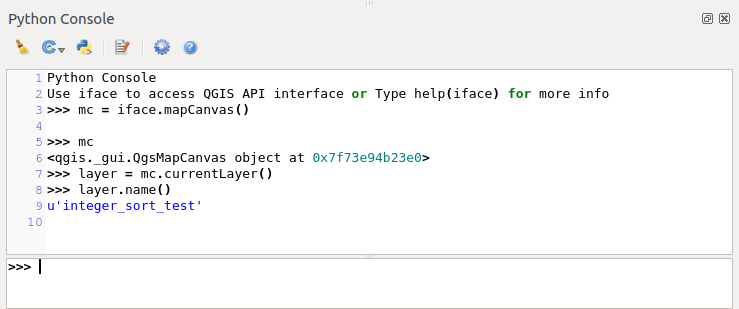
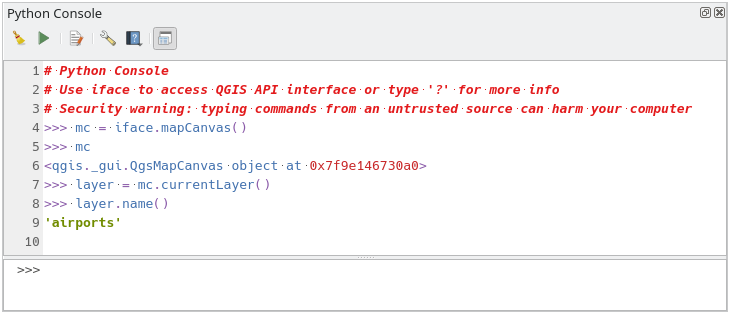
Describe Python Console features

Changed region(s): [[0.0, 0.0, 1.0, 1.0]]

diff --git a/docs/user_manual/plugins/python_console.rst b/docs/user_manual/plugins/python_console.rst
@@ -12,26 +12,37 @@ QGIS Python console
    .. contents::
       :local:
 
-As you will see later in this chapter, QGIS has been designed with a plugin
-architecture. Plugins can be written in Python, a very famous language in the
-geospatial world.
+As you will see later in this chapter, QGIS has been designed with a plugin architecture.
+Plugins can be written in Python, a very famous language in the geospatial world.
 
 QGIS brings a Python API (see :ref:`PyQGIS Developer Cookbook <PyQGIS-Developer-Cookbook>`
-for some code sample) to let the user interact with its objects (layers,
-feature or interface). QGIS also has a Python console.
+for some code sample) to let the user interact with its objects (layers, feature or interface).
+QGIS also has a Python console.
 
-The QGIS Python Console is an interactive shell for the python command
-executions. It also has a python file editor that allows you to edit and save
-your python scripts. Both console and editor are based on PyQScintilla2
-package. To open the console go to :menuselection:`Plugins --> Python Console`
-(:kbd:`Ctrl+Alt+P`).
+The QGIS Python Console is an interactive shell for Python command executions.
+It also has a Python file editor that allows you to edit and save your Python scripts.
+Both console and editor are based on PyQScintilla2 package.
+To open the console go to :menuselection:`Plugins --> Python Console` (:kbd:`Ctrl+Alt+P`).
 
 .. _interactive_console:
 
 The Interactive Console
 =======================
 
+The console is a Python interpreter that allows you to execute Python commands.
+Modules from QGIS (analysis, core, gui, server, processing, 3d)
+and Qt (QtCore, QtGui, QtNetwork, QtWidgets, QtXml)
+as well as Python's math, os, re and sys modules are already imported
+and can be used directly.
+
 The interactive console is composed of a toolbar, an input area and an output one.
+
+.. _figure_python_console:
+
+.. figure:: img/python_console.png
+   :align: center
+
+   The Python Console
 
 Toolbar
 -------
@@ -39,19 +50,23 @@ Toolbar
 The toolbar proposes the following tools:
 
 * |clearConsole| :sup:`Clear Console` to wipe the output area;
-* |runConsole| :sup:`Run Command` available in the input area: same as
+* |start| :sup:`Run Command` available in the input area: same as
   pressing :kbd:`Enter`;
 * |showEditorConsole| :sup:`Show Editor`: toggles :ref:`console_editor`
   visibility;
-* |options| :sup:`Options...`: opens a dialog to configure console
-  properties (see :ref:`console_options`);
-* |helpContents| :sup:`Help...`: browses the current documentation.
+* |options| :sup:`Options...`: opens a dialog to configure :ref:`console properties
+  <console_options>`;
+* |helpContents| :sup:`Help...` provides a menu to access various documentation:
 
+  * :ref:`Python Console Help <console>` (the current page)
+  * :pyqgis:`PyQGIS API documentation <>`
+  * :ref:`PyQGIS Cookbook <PyQGIS-Developer-Cookbook>`
+* |dock| :sup:`Dock Code Editor` to dock or undock the panel in QGIS interface
 
-Console
--------
+Input area
+----------
 
-The console main features are:
+The Console input area main features are:
 
 * Code completion, highlighting syntax and calltips for the following APIs:
 
@@ -75,9 +90,39 @@ The console main features are:
 * Save and clear the command history. The history will be saved into the
   :file:`console_history.txt` file under the active :ref:`user profile
   <user_profiles>` folder;
-* Open :api:`QGIS C++ API <>` documentation by typing ``_api``;
-* Open :pyqgis:`QGIS Python API <>` documentation by typing ``_pyqgis``.
-* Open :ref:`PyQGIS Cookbook <PyQGIS-Developer-Cookbook>` by typing ``_cookbook``.
+
+* Type the following special commands:
+
+  * ``?`` to show a help of the Python Console
+  * ``_api`` to open :api:`QGIS C++ API <>` documentation
+    or ``_api(object)`` for a specific object documentation
+    (in QGIS C++ API or Qt API documentation)
+  * ``_pyqgis`` to open :pyqgis:`QGIS Python API <>` documentation
+    or ``_pyqgis(object)`` for a specific object documentation
+    (in QGIS Python API or Qt API documentation)
+  * ``_cookbook`` to open :ref:`PyQGIS Cookbook <PyQGIS-Developer-Cookbook>`.
+  * ``!`` followed by a command to execute Shell commands from the Python Console.
+    The console will start a subprocess, and forward its output to the Python Console Output.
+    While the subprocess is running, the Python Console Input switches to STDIN mode
+    and forwards entered character to the child process.
+    This makes it possible to send confirmation when the child program asks for it.
+    When the Console is in STDIN mode, pressing :kbd:`Ctrl+C` kills the subprocess.
+    It is also possible to affect the result of a command to a variable with the syntax ``var = !cmd``
+
+    .. code-block:: bash
+
+      >>> !echo QGIS Rocks!
+      QGIS Rocks
+
+      >>> !gdalinfo --version
+      GDAL 3.6.2, released 2023/01/02
+
+      >>> !pip install black
+      # Install black python formatter using pip (if available)
+
+      >>> sql_formats = !ogrinfo --formats | grep SQL
+      >>> sql_formats
+      ['SQLite -vector- (rw+v): SQLite / Spatialite', '  MSSQLSpatial -vector- (rw+): Microsoft SQL Server Spatial Database', '  PostgreSQL -vector- (rw+): PostgreSQL/PostGIS', '  MySQL -vector- (rw+): MySQL', '  PGDUMP -vector- (w+v): PostgreSQL SQL dump']
 
 
 .. tip:: **Reuse executed commands from the output panel**
@@ -85,13 +130,7 @@ The console main features are:
  You can execute code snippets from the output panel by selecting some text and
  pressing :kbd:`Ctrl+E`. No matter if selected text contains the interpreter
  prompt (``>>>``, ``...``).
-  
-.. _figure_python_console:
 
-.. figure:: img/python_console.png
-   :align: center
-
-   The Python Console
 
 .. _console_editor:
 
@@ -157,6 +196,8 @@ share the code via GitHub and much more). Main features are:
    source folder.
 
 .. |clearConsole| image:: /static/common/iconClearConsole.png
+   :width: 1.5em
+.. |dock| image:: /static/common/dock.png
    :width: 1.5em
 .. |helpContents| image:: /static/common/mActionHelpContents.png
    :width: 1.5em
